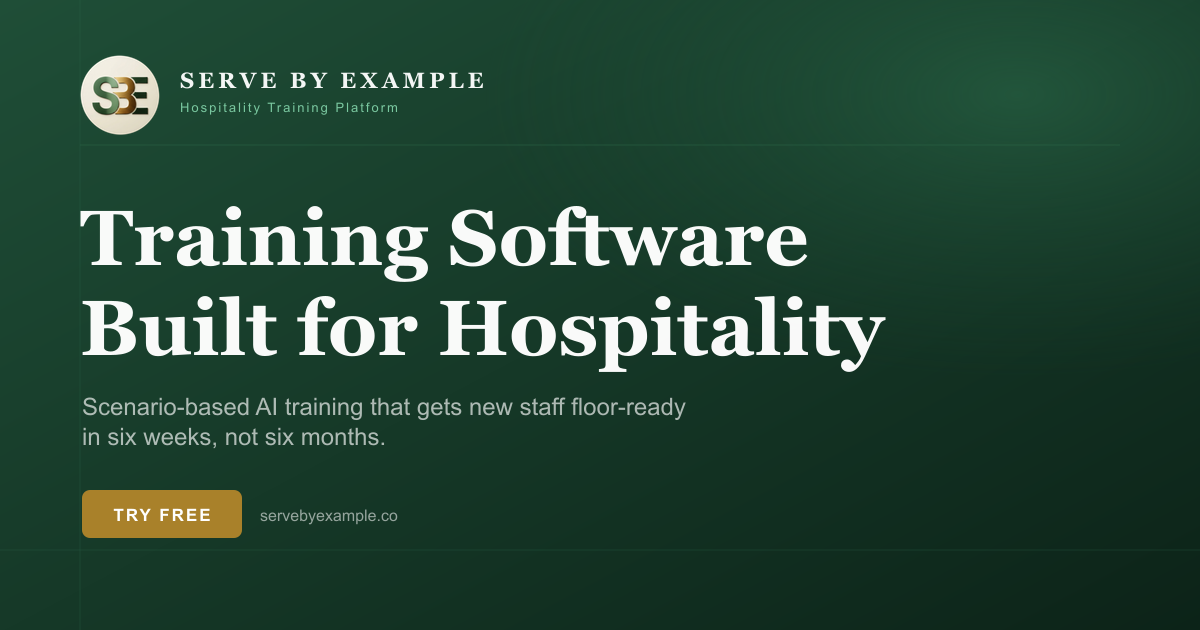
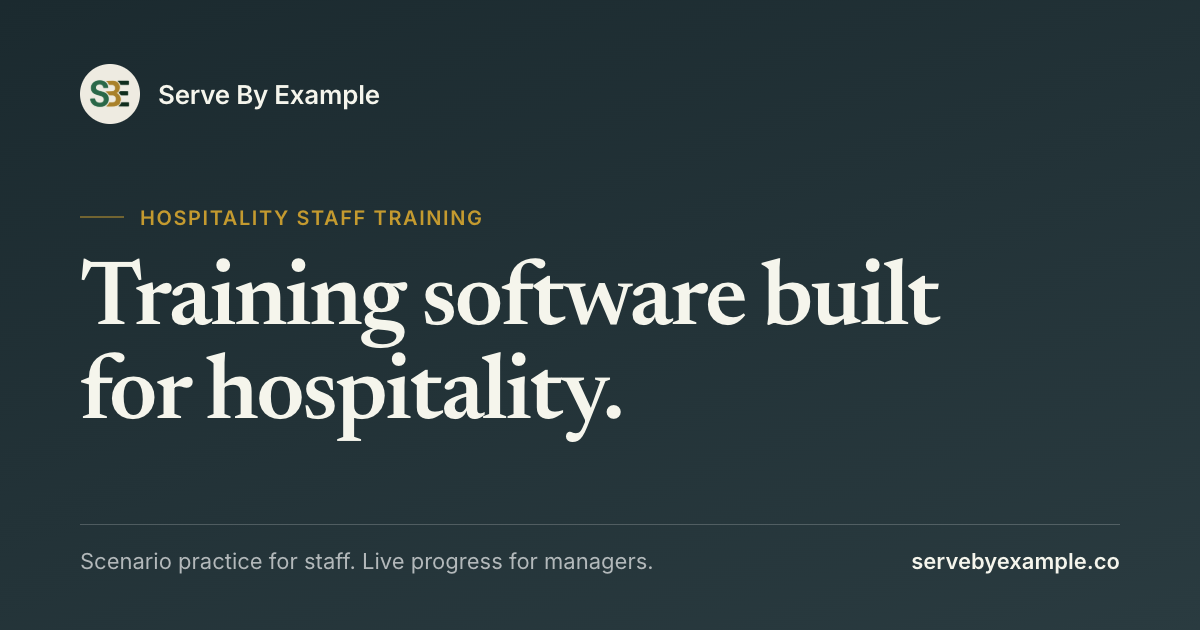
style: redraw the share image on the marketing standard

diff --git a/scripts/og-image.html b/scripts/og-image.html
@@ -1,0 +1,138 @@
+<!doctype html>
+<!--
+  Source for public/og-image.png, the 1200 x 630 card shown when a page is
+  shared (Open Graph and Twitter, set in app/layout.tsx).
+
+  Styled to docs/Pages-Redesign.md: the dark band, a kicker, one Newsreader
+  heading, hairlines, no button and no decoration. The colours are copies of
+  the tokens in app/globals.css, named the same; keep them in step.
+
+  To regenerate: serve the repo's scripts/, app/fonts/ and public/logo.png
+  with the same relative layout, open this file in a browser at 1200 x 630
+  and screenshot the page to public/og-image.png.
+-->
+<html lang="en-AU">
+<head>
+<meta charset="utf-8">
+<title>Share image</title>
+<style>
+  @font-face {
+    font-family: "Newsreader";
+    src: url("../app/fonts/newsreader-latin-variable.woff2") format("woff2");
+    font-weight: 400 700;
+    font-style: normal;
+  }
+  @font-face {
+    font-family: "Inter";
+    src: url("../app/fonts/inter-latin-variable.woff2") format("woff2");
+    font-weight: 400 600;
+    font-style: normal;
+  }
+
+  :root {
+    --bg-dark: #1B2A2F;
+    --bg-dark-soft: #2A3B40;
+    --nav-cream: #F5F5EC;
+    --gold-warm: #c49a2f;
+    --text-light-muted-on-dark: rgba(255, 255, 255, 0.65);
+    --border-light-on-dark: rgba(255, 255, 255, 0.2);
+    --font-heading: "Newsreader", Georgia, serif;
+    --font-body: "Inter", system-ui, sans-serif;
+  }
+
+  * { box-sizing: border-box; margin: 0; }
+
+  html {
+    font-variation-settings: "opsz" 24;
+  }
+
+  body {
+    width: 1200px;
+    height: 630px;
+    overflow: hidden;
+    display: flex;
+    flex-direction: column;
+    justify-content: space-between;
+    padding: 64px 80px 56px;
+    background: linear-gradient(160deg, var(--bg-dark) 0%, var(--bg-dark-soft) 100%);
+    color: var(--nav-cream);
+    font-family: var(--font-body);
+    -webkit-font-smoothing: antialiased;
+  }
+
+  .brand {
+    display: flex;
+    align-items: center;
+    gap: 18px;
+    font-size: 26px;
+    font-weight: 600;
+    letter-spacing: -0.01em;
+  }
+
+  .brand img {
+    width: 60px;
+    height: 60px;
+    border-radius: 50%;
+  }
+
+  .kicker {
+    display: flex;
+    align-items: center;
+    gap: 16px;
+    margin-bottom: 26px;
+    color: var(--gold-warm);
+    font-size: 20px;
+    font-weight: 600;
+    letter-spacing: 0.08em;
+    text-transform: uppercase;
+  }
+
+  .kicker::before {
+    content: "";
+    width: 44px;
+    height: 1px;
+    background: currentColor;
+  }
+
+  h1 {
+    max-width: 900px;
+    font-family: var(--font-heading);
+    font-size: 92px;
+    font-weight: 600;
+    line-height: 1.02;
+    letter-spacing: -0.025em;
+  }
+
+  .foot {
+    display: flex;
+    justify-content: space-between;
+    align-items: baseline;
+    padding-top: 22px;
+    border-top: 1px solid var(--border-light-on-dark);
+    color: var(--text-light-muted-on-dark);
+    font-size: 22px;
+  }
+
+  .foot span:last-child {
+    color: var(--nav-cream);
+    font-weight: 600;
+  }
+</style>
+</head>
+<body>
+  <div class="brand">
+    <img src="../public/logo.png" alt="">
+    Serve By Example
+  </div>
+
+  <div>
+    <p class="kicker">Hospitality staff training</p>
+    <h1>Training software built for hospitality.</h1>
+  </div>
+
+  <div class="foot">
+    <span>Scenario practice for staff. Live progress for managers.</span>
+    <span>servebyexample.co</span>
+  </div>
+</body>
+</html>
